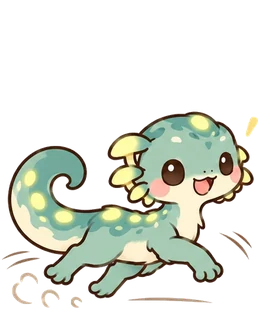
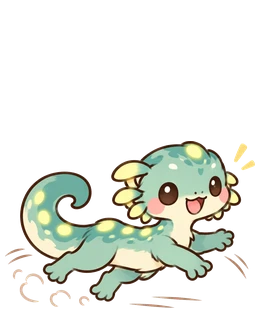
ほたるび（わかもの・ひる3）の 絵 を 差し替え

diff --git a/index.html b/index.html
@@ -5,10 +5,10 @@
 <link rel="icon" type="image/png" sizes="64x64" href="favicon.png?v=3">
 <link rel="apple-touch-icon" href="apple-touch-icon.png?v=3">
 <link rel="manifest" href="manifest.json">
-<script src="stickers/stickers.js?v=202610280825"></script>
-<script src="nakama/nakama.js?v=202610280825"></script>
-<script src="clock/clock.js?v=202610280825"></script>
-<script src="drill/patterns.js?v=202610280825"></script>
+<script src="stickers/stickers.js?v=202610280826"></script>
+<script src="nakama/nakama.js?v=202610280826"></script>
+<script src="clock/clock.js?v=202610280826"></script>
+<script src="drill/patterns.js?v=202610280826"></script>
 <meta name="apple-mobile-web-app-title" content="けいさん">
 <link rel="preconnect" href="https://fonts.googleapis.com">
 <link rel="preconnect" href="https://fonts.gstatic.com" crossorigin>
@@ -3466,7 +3466,7 @@ body.course .levels.nrange .lv{padding:3px 2px;font-size:12px}
   const nkSp = id => NK_LIST.find(x=>x.id===id) || NK_LIST[0];
   // ちいさい だんかいは すこし おおきく みせる（そだって いる かんじは のこす）
   const NK_SCALE = [1.9, 1.5, 1.15, 1, 1, 1];
-  const NK_IMG_VER = "11";   // なかまの え を さしかえたら ばんごうを あげる（ふるい え が のこらない ように）
+  const NK_IMG_VER = "12";   // なかまの え を さしかえたら ばんごうを あげる（ふるい え が のこらない ように）
   const nkImgSrc = (id, stage, mood) => `nakama/${id}/${NK_STAGES[stage]}_${stage===0 && mood==="s" ? "n" : mood}.webp?v=${NK_IMG_VER}`;
   const dkDate = k => { const [y,m,d]=k.split("-").map(Number); return new Date(y, m-1, d); };
   const dkAdd = (k, n) => { const d=dkDate(k); d.setDate(d.getDate()+n); return dayKey(d); };

diff --git a/CHANGELOG.md b/CHANGELOG.md
@@ -12,6 +12,9 @@
 ## 2026-10-28
 
 ### 修正（なかま）
+- **20:06** ほたるび（わかもの・ひる）の絵を、手あしの数が正しい絵に直しました。
+
+### 修正（なかま）
 - **20:04** すなまる（おとな・よろこび）、こむぎ（こども・ひる）、ほたるび（こども・あさ／ひる、おとな・ひる）、ゆらり（おとしより・あさ／しょんぼり、おとな・ひる）の絵で、手やあしの数がおかしかったのを直しました。
 
 ### 修正（なかま）
